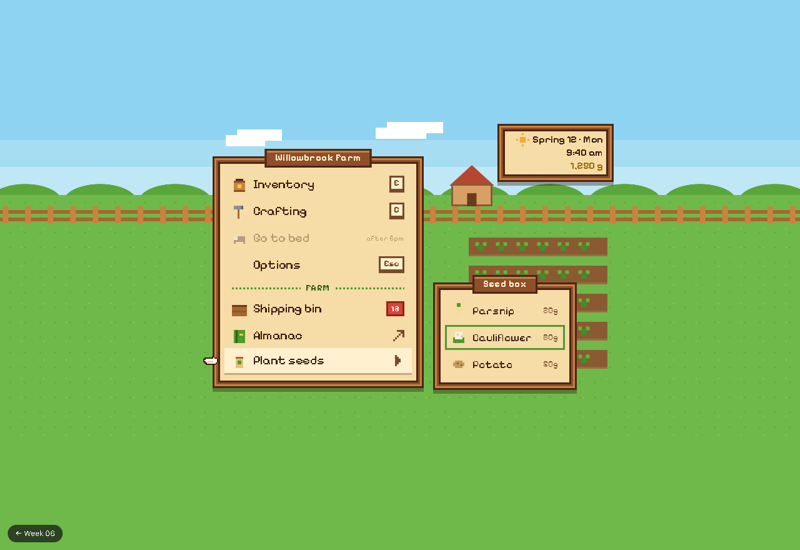
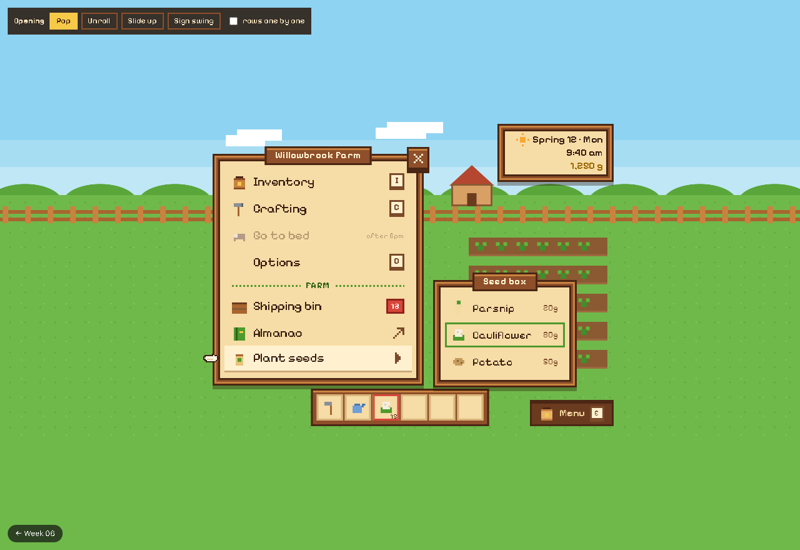
Week 06 Harvest in use: the menu starts shut behind a wooden Menu button (E); four stepped opening motions to compare (pop, unroll, slide up, sign swing) with rows one by one; ×, Esc, E and a click on the farm close it; picks answer over a hotbar, seeds land in hand, the bed shakes its head; spec re
Claude-Session: https://claude.ai/code/session_01NJxmaEWhDanH1Md96UKkh6

Changed region(s): [[0.25, 0.2473, 0.7812, 0.7727], [0.0, 0.0, 0.4062, 0.0618]]

diff --git a/week-06/week-06-harvest-menu.html b/week-06/week-06-harvest-menu.html
@@ -5,24 +5,27 @@
   <meta name="viewport" content="width=device-width, initial-scale=1" />
   <title>Week 06 · Set 1 · Harvest · In use</title>
   <link rel="icon" href="../shared/favicon.svg" type="image/svg+xml" />
-  <link rel="stylesheet" href="week-06-harvest.css?v=1" />
+  <link rel="stylesheet" href="week-06-harvest.css?v=2" />
   <style>
-  /* In use: the in-day menu of "Willowbrook", a cosy pixel farming game, opened over the farm on
-     a spring morning. Parchment in a wooden frame, a pointing hand that bobs beside the lit row,
-     key caps for shortcuts, a red tag for the crates waiting in the shipping bin. Plant seeds opens
-     the seed box beside it. Everything moves in whole game pixels. */
+  /* In use: "Willowbrook", a cosy pixel farming game, on a spring morning. The menu starts shut:
+     a wooden Menu button sits in the corner. Click it or press E and the menu opens over the farm;
+     close it with ×, Esc, E, or a click on the farm. Picking does something you can see: a
+     message over the hotbar, and seeds land in your hand. Everything moves in whole game pixels.
+     The opening motion can be switched, to compare. */
   *, *::before, *::after { box-sizing: border-box; }
   html, body { margin: 0; }
   body { background: #7cc4e8; -webkit-font-smoothing: none; }
   button { font: inherit; }
-  :root { --w: 720px; --h: 520px; --fit: 1; }
+  :root { --w: 720px; --h: 520px; --fit: 1;
+    /* opening motions: each in a few whole frames, the way a sprite animates */
+    --open-pop: 200ms; --open-unroll: 300ms; --open-slide: 240ms; --open-swing: 480ms;
+    --close-time: 140ms; --row-stagger: 40ms; }
   /* the sky and the grass carry on past the stage, meeting where the stage's horizon is */
   .hero { position: relative; height: 100vh; overflow: hidden; background: linear-gradient(#8fd3f2 calc(50% - 128px * var(--fit)), #6fb94a calc(50% - 128px * var(--fit))); }
   .stage { position: absolute; left: 50%; top: 50%; width: var(--w); height: var(--h); transform: translate(-50%, -50%) scale(var(--fit)); }
 
-  /* the farm, in game pixels */
+  /* ---------- the farm, in game pixels ---------- */
   .farm { position: absolute; inset: 0; image-rendering: pixelated; }
-  /* the landscape runs on past the stage, out to the window's edges */
   .sky, .hills, .grass, .fence { margin: 0 -1500px; }
   .sky { position: absolute; left: 0; right: 0; top: 0; height: 132px; background: linear-gradient(#8fd3f2 0 33%, #a6ddf3 33% 66%, #bfe7f5 66%); }
   .cloud { position: absolute; height: 18px; background: #fff; box-shadow: 9px -9px 0 0 #fff, 27px -9px 0 0 #fff, -9px 0 0 0 #fff; }
@@ -37,28 +40,90 @@
   .house .roof { position: absolute; inset: 0 0 33px; background: #b5462f; clip-path: polygon(10% 100%, 50% 0, 90% 100%); }
   .house .wall { position: absolute; left: 12px; right: 12px; bottom: 0; height: 36px; background: #d9a066; box-shadow: inset 0 0 0 3px #8a5a33; }
   .house .door { position: absolute; left: 50%; bottom: 0; width: 15px; height: 21px; translate: -50% 0; background: #6b3b1f; }
+  .farmer { position: absolute; left: 300px; top: 300px; width: 27px; height: 39px; }
+  .farmer i { position: absolute; display: block; }
 
-  /* the clock, top right */
+  /* ---------- the clock ---------- */
   .clock { position: absolute; right: 18px; top: 18px; width: 186px; padding: 12px 14px; font: 600 16px/1.3 var(--font); color: var(--ink); text-align: right; }
   .clock b { display: flex; justify-content: flex-end; align-items: center; gap: 6px; font-size: 16px; white-space: nowrap; }
   .clock .gold { color: #9c6a00; }
 
-  /* the menu */
-  .menu-panel { position: absolute; left: 60px; top: 70px; }
+  /* ---------- wooden buttons: the Menu button and the panel's × ---------- */
+  .wood-btn { display: flex; align-items: center; gap: 8px; padding: 0 12px; height: 42px; border: 3px solid var(--wood-dark); background: var(--wood); color: var(--paper-hi);
+    box-shadow: inset 0 3px 0 var(--wood-hi), 0 6px 0 var(--wood-dark); font: 600 16px/1 var(--font); cursor: pointer; translate: 0 0; transition: translate 80ms steps(1), box-shadow 80ms steps(1); }
+  .wood-btn:hover, .wood-btn:focus-visible { background: #a35d31; translate: 0 -3px; box-shadow: inset 0 3px 0 #dc9a55, 0 9px 0 var(--wood-dark); outline: none; }
+  .wood-btn:active, .wood-btn.is-press { translate: 0 6px; box-shadow: inset 0 3px 0 var(--wood-dark), 0 0 0 var(--wood-dark); background: #7a4423; }
+  .wood-btn[aria-expanded="true"] { translate: 0 6px; box-shadow: inset 0 3px 0 var(--wood-dark), 0 0 0 var(--wood-dark); background: #6b3b1f; color: #f0d39a; }
+  .wood-btn .s-key { translate: 0 0; height: 22px; min-width: 22px; font-size: 12px; }
+  .menu-btn { position: absolute; right: 18px; bottom: 24px; z-index: 3; }
+  .menu-btn svg { width: 24px; height: 24px; }
+  .close { position: absolute; right: -12px; top: -14px; z-index: 2; width: 36px; height: 36px; padding: 0; justify-content: center; }
+  .close svg { width: 15px; height: 15px; }
+
+  /* ---------- the menu, shut and open ---------- */
+  .menu-panel { position: absolute; left: 60px; top: 66px; z-index: 2; transform-origin: 50% 50%; }
+  .menu-panel[hidden] { display: none; }
   .menu-panel .s-menu { margin-top: 4px; }
   .has-sub { position: relative; }
   .submenu.p-panel { position: absolute; left: calc(100% + 34px); bottom: -24px; width: 230px; padding-top: 22px; display: none; }
-  .has-sub.is-open > .submenu { display: block; animation: pop var(--sub-open) steps(2); }
-  @keyframes pop { from { scale: .9; opacity: .5; } }
-  .said { position: absolute; left: 60px; bottom: 18px; margin: 0; padding: 8px 16px; background: var(--paper); border: 3px solid var(--wood-dark); box-shadow: inset 0 0 0 3px var(--wood-hi);
-    font: 400 16px/1 var(--font); color: var(--ink); white-space: nowrap; }
-  .said:empty { display: none; }
+  .has-sub.is-open > .submenu { display: block; animation: sub-pop var(--sub-open) steps(2); }
+  @keyframes sub-pop { from { scale: .9; opacity: .5; } }
+
+  /* the four opening motions; closing plays the same one backwards, faster */
+  .menu-panel.is-opening, .menu-panel.is-closing { animation-fill-mode: both; }
+  [data-motion="pop"] .menu-panel.is-opening { animation: m-pop var(--open-pop) steps(4, jump-none); }
+  [data-motion="pop"] .menu-panel.is-closing { animation: m-pop var(--close-time) steps(3, jump-none) reverse; }
+  @keyframes m-pop { 0% { scale: .7; opacity: 0; } 60% { scale: 1.05; opacity: 1; } 100% { scale: 1; opacity: 1; } }
+  [data-motion="unroll"] .menu-panel.is-opening { animation: m-unroll var(--open-unroll) steps(6, jump-none); }
+  [data-motion="unroll"] .menu-panel.is-closing { animation: m-unroll var(--close-time) steps(3, jump-none) reverse; }
+  @keyframes m-unroll { 0% { clip-path: inset(-30px -40px 100% -40px); } 100% { clip-path: inset(-30px -40px -40px -40px); } }
+  [data-motion="slide"] .menu-panel.is-opening { animation: m-slide var(--open-slide) steps(5, jump-none); }
+  [data-motion="slide"] .menu-panel.is-closing { animation: m-slide var(--close-time) steps(3, jump-none) reverse; }
+  @keyframes m-slide { 0% { translate: 0 90px; opacity: 0; } 70% { translate: 0 -6px; opacity: 1; } 100% { translate: 0 0; opacity: 1; } }
+  [data-motion="swing"] .menu-panel { transform-origin: 50% -30px; }
+  [data-motion="swing"] .menu-panel.is-opening { animation: m-swing var(--open-swing) steps(8, jump-none); }
+  [data-motion="swing"] .menu-panel.is-closing { animation: m-swing var(--close-time) steps(3, jump-none) reverse; }
+  @keyframes m-swing { 0% { translate: 0 -420px; rotate: 0deg; } 35% { translate: 0 0; rotate: -6deg; } 60% { rotate: 4deg; } 80% { rotate: -2deg; } 100% { translate: 0 0; rotate: 0deg; } }
+  /* rows can arrive one after another */
+  .stagger .menu-panel.is-opening .s-menu > * { animation: row-in 120ms steps(2, jump-none) both; animation-delay: calc(var(--i) * var(--row-stagger) + 60ms); }
+  @keyframes row-in { from { opacity: 0; translate: -9px 0; } }
+
+  /* picking a bed you cannot use yet: the row shakes its head */
+  .s-item.is-no { animation: no 240ms steps(4, jump-none); }
+  @keyframes no { 25% { translate: -6px 0; } 50% { translate: 6px 0; } 75% { translate: -3px 0; } }
+
+  /* ---------- the hotbar and the message above it ---------- */
+  .hotbar { position: absolute; left: 50%; bottom: 18px; translate: -50% 0; display: flex; gap: 3px; padding: 6px; background: var(--wood); border: 3px solid var(--wood-dark); box-shadow: inset 0 3px 0 var(--wood-hi); z-index: 1; }
+  .slot { position: relative; display: grid; place-items: center; width: 42px; height: 42px; background: var(--paper); box-shadow: inset 0 0 0 3px #d9b67a; }
+  .slot svg { width: 24px; height: 24px; }
+  .slot.is-on { box-shadow: inset 0 0 0 3px var(--berry); }
+  .slot.is-new { animation: land 300ms steps(3, jump-none); }
+  @keyframes land { 0% { translate: 0 -18px; } 60% { translate: 0 3px; } 100% { translate: 0 0; } }
+  .slot small { position: absolute; right: 3px; bottom: 1px; font: 600 11px/1 var(--font); color: var(--ink); }
+  .toast { position: absolute; left: 50%; bottom: 92px; translate: -50% 0; margin: 0; padding: 8px 14px; background: var(--paper); border: 3px solid var(--wood-dark); box-shadow: inset 0 0 0 3px var(--wood-hi);
+    font: 400 15px/1 var(--font); color: var(--ink); white-space: nowrap; z-index: 3; }
+  .toast:empty { display: none; }
+  .toast.is-new { animation: land 240ms steps(3, jump-none); }
+
+  /* ---------- trying the motions (outside the game) ---------- */
+  .tryout { position: absolute; left: 12px; top: 12px; z-index: 5; display: flex; flex-wrap: wrap; align-items: center; gap: 6px; padding: 8px 10px; background: rgba(43, 26, 16, .88); color: #f6e3bd; font: 400 13px/1 var(--font); }
+  .tryout[hidden] { display: none; }
+  .tryout b { font-weight: 600; margin-right: 2px; }
+  .tryout button { padding: 5px 9px; border: 2px solid #8e4f2a; background: transparent; color: #f6e3bd; cursor: pointer; }
+  .tryout button[aria-pressed="true"] { background: var(--sun); border-color: var(--sun); color: var(--ink); }
+  .tryout label { display: flex; align-items: center; gap: 5px; margin-left: 4px; cursor: pointer; }
   .back-pill { position: fixed; left: 12px; bottom: 12px; z-index: 9; font: 12px/1 system-ui, sans-serif; color: #fff; background: rgba(20, 20, 20, .72); padding: 8px 12px; border-radius: 999px; text-decoration: none; }
+  @media (prefers-reduced-motion: reduce) { .menu-panel.is-opening, .menu-panel.is-closing, .slot.is-new, .toast.is-new, .s-item.is-no { animation-duration: 1ms !important; } }
   </style>
 </head>
 <body>
   <section class="hero">
-    <div class="stage">
+    <div class="tryout" role="group" aria-label="Opening motion">
+      <b>Opening</b>
+      <button type="button" data-m="pop">Pop</button><button type="button" data-m="unroll">Unroll</button><button type="button" data-m="slide">Slide up</button><button type="button" data-m="swing">Sign swing</button>
+      <label><input type="checkbox" id="stagger" /> rows one by one</label>
+    </div>
+    <div class="stage" data-motion="pop">
       <div class="farm" aria-hidden="true">
         <div class="sky"></div>
         <div class="cloud" style="left:90px;top:36px;width:54px"></div><div class="cloud" style="left:330px;top:24px;width:72px"></div>
@@ -67,6 +132,11 @@
         <div class="fence"></div>
         <div class="house"><div class="roof"></div><div class="wall"></div><div class="door"></div></div>
         <div class="field"></div>
+        <div class="farmer">
+          <i style="left:6px;top:0;width:15px;height:6px;background:#c9823f"></i><i style="left:3px;top:6px;width:21px;height:3px;background:#a8652f"></i>
+          <i style="left:6px;top:9px;width:15px;height:9px;background:#f2c9a0"></i><i style="left:3px;top:18px;width:21px;height:12px;background:#3f6fb5"></i>
+          <i style="left:6px;top:30px;width:6px;height:9px;background:#4a2614"></i><i style="left:15px;top:30px;width:6px;height:9px;background:#4a2614"></i>
+        </div>
       </div>
 
       <div class="clock p-panel" aria-label="Spring 12, Monday, 9:40 in the morning, 1,250 gold">
@@ -74,28 +144,38 @@
         9:40 am<br /><span class="gold">1,250 g</span>
       </div>
 
-      <div class="menu-panel p-panel">
+      <div class="hotbar" aria-label="Hotbar">
+        <span class="slot"><svg viewBox="0 0 8 8" shape-rendering="crispEdges" aria-hidden="true"><path d="M1 1h4v2H1z" fill="#8a8f96"/><path d="M4 3h1v5H4z" fill="#a8652f"/></svg></span>
+        <span class="slot"><svg viewBox="0 0 8 8" shape-rendering="crispEdges" aria-hidden="true"><path d="M1 3h5v4H1z" fill="#6f9fd8"/><path d="M6 2h2v1H6zM6 3h1v1H6z" fill="#4a77b0"/><path d="M2 2h3v1H2z" fill="#4a77b0"/></svg></span>
+        <span class="slot is-on" id="seed-slot" aria-label="In hand: Cauliflower seeds"><svg viewBox="0 0 8 8" shape-rendering="crispEdges" aria-hidden="true"><path d="M1 4h6v3H1z" fill="#4f9a2c"/><path d="M2 1h4v4H2z" fill="#f4efe0"/><path d="M3 2h1v1H3zM5 3h1v1H5z" fill="#d8cfb5"/></svg><small>15</small></span>
+        <span class="slot"></span><span class="slot"></span><span class="slot"></span>
+      </div>
+      <p class="toast" aria-live="polite"></p>
+
+      <button class="wood-btn menu-btn" type="button" aria-expanded="false" aria-controls="game-menu"><svg viewBox="0 0 8 8" shape-rendering="crispEdges" aria-hidden="true"><path d="M2 1h4v1H2z" fill="#4a2614"/><path d="M1 2h6v6H1z" fill="#e8b46a"/><path d="M1 2h6v1H1zM1 7h6v1H1z" fill="#c9823f"/><path d="M3 4h2v2H3z" fill="#f7c948"/></svg>Menu<kbd class="s-key">E</kbd></button>
+
+      <div class="menu-panel p-panel" id="game-menu" hidden>
         <span class="p-title" aria-hidden="true">Willowbrook Farm</span>
+        <button class="wood-btn close" type="button" aria-label="Close the menu"><svg viewBox="0 0 5 5" shape-rendering="crispEdges" aria-hidden="true"><path d="M0 0h1v1H0zM1 1h1v1H1zM2 2h1v1H2zM3 3h1v1H3zM4 4h1v1H4zM4 0h1v1H4zM3 1h1v1H3zM1 3h1v1H1zM0 4h1v1H0z" fill="currentColor"/></svg></button>
         <div class="s-menu" role="menu" aria-label="Game menu">
-          <button class="s-item" role="menuitem" data-say="Your backpack: 24 slots, 17 full."><svg class="s-ico" viewBox="0 0 8 8" aria-hidden="true"><path d="M2 1h4v1H2z" fill="#4a2614"/><path d="M1 2h6v6H1z" fill="#c9823f"/><path d="M1 2h6v1H1zM1 7h6v1H1z" fill="#8e4f2a"/><path d="M3 4h2v2H3z" fill="#f7c948"/></svg><span class="s-label">Inventory</span><kbd class="s-key">E</kbd></button>
-          <button class="s-item" role="menuitem" data-say="You know 12 recipes."><svg class="s-ico" viewBox="0 0 8 8" aria-hidden="true"><path d="M1 1h5v2H1z" fill="#8a8f96"/><path d="M5 1h1v2H5z" fill="#5e636a"/><path d="M3 3h1v5H3z" fill="#a8652f"/></svg><span class="s-label">Crafting</span><kbd class="s-key">C</kbd></button>
-          <button class="s-item" role="menuitem" aria-disabled="true"><svg class="s-ico" viewBox="0 0 8 8" aria-hidden="true"><path d="M1 3h6v3H1zM1 6h1v1H1zM6 6h1v1H6z" fill="#b39b85"/><path d="M1 3h2v2H1z" fill="#efe3d3"/></svg><span class="s-label">Go to bed</span><span class="s-note">after 6pm</span></button>
-          <button class="s-item" role="menuitem" data-say="Options: sound, zoom, controls."><span class="s-ico"></span><span class="s-label">Options</span><kbd class="s-key">Esc</kbd></button>
-          <div class="s-sect" role="separator">Farm</div>
-          <button class="s-item" role="menuitem" data-say="12 crates ship tonight at 6pm."><svg class="s-ico" viewBox="0 0 8 8" aria-hidden="true"><path d="M0 3h8v5H0z" fill="#a8652f"/><path d="M0 2h8v1H0z" fill="#6b3b1f"/><path d="M0 5h8v1H0z" fill="#8a5a33"/></svg><span class="s-label">Shipping bin</span><span class="s-badge" aria-label="12 crates">12</span></button>
-          <button class="s-item" role="menuitem" data-say="The almanac opens in your browser."><svg class="s-ico" viewBox="0 0 8 8" aria-hidden="true"><path d="M1 1h6v7H1z" fill="#4f9a2c"/><path d="M2 1h1v7H2z" fill="#2f6418"/><path d="M4 3h2v1H4z" fill="#f7c948"/></svg><span class="s-label">Almanac</span><svg class="s-end" viewBox="0 0 6 6" aria-hidden="true"><path d="M2 0h4v4H5V2H4V1H2zM3 2h1v1H3zM2 3h1v1H2zM1 4h1v1H1zM0 5h1v1H0z" fill="currentColor"/></svg></button>
-          <div class="has-sub">
+          <button class="s-item" role="menuitem" data-say="Your backpack: 24 slots, 17 full." style="--i:0"><svg class="s-ico" viewBox="0 0 8 8" aria-hidden="true"><path d="M2 1h4v1H2z" fill="#4a2614"/><path d="M1 2h6v6H1z" fill="#c9823f"/><path d="M1 2h6v1H1zM1 7h6v1H1z" fill="#8e4f2a"/><path d="M3 4h2v2H3z" fill="#f7c948"/></svg><span class="s-label">Inventory</span><kbd class="s-key">I</kbd></button>
+          <button class="s-item" role="menuitem" data-say="You know 12 recipes." style="--i:1"><svg class="s-ico" viewBox="0 0 8 8" aria-hidden="true"><path d="M1 1h5v2H1z" fill="#8a8f96"/><path d="M5 1h1v2H5z" fill="#5e636a"/><path d="M3 3h1v5H3z" fill="#a8652f"/></svg><span class="s-label">Crafting</span><kbd class="s-key">C</kbd></button>
+          <button class="s-item" role="menuitem" aria-disabled="true" data-say="Not tired yet. Bed after 6pm." style="--i:2"><svg class="s-ico" viewBox="0 0 8 8" aria-hidden="true"><path d="M1 3h6v3H1zM1 6h1v1H1zM6 6h1v1H6z" fill="#b39b85"/><path d="M1 3h2v2H1z" fill="#efe3d3"/></svg><span class="s-label">Go to bed</span><span class="s-note">after 6pm</span></button>
+          <button class="s-item" role="menuitem" data-say="Options: sound, zoom, controls." style="--i:3"><span class="s-ico"></span><span class="s-label">Options</span><kbd class="s-key">O</kbd></button>
+          <div class="s-sect" role="separator" style="--i:4">Farm</div>
+          <button class="s-item" role="menuitem" data-say="12 crates ship tonight at 6pm." style="--i:5"><svg class="s-ico" viewBox="0 0 8 8" aria-hidden="true"><path d="M0 3h8v5H0z" fill="#a8652f"/><path d="M0 2h8v1H0z" fill="#6b3b1f"/><path d="M0 5h8v1H0z" fill="#8a5a33"/></svg><span class="s-label">Shipping bin</span><span class="s-badge" aria-label="12 crates">12</span></button>
+          <button class="s-item" role="menuitem" data-say="The almanac opens in your browser." style="--i:6"><svg class="s-ico" viewBox="0 0 8 8" aria-hidden="true"><path d="M1 1h6v7H1z" fill="#4f9a2c"/><path d="M2 1h1v7H2z" fill="#2f6418"/><path d="M4 3h2v1H4z" fill="#f7c948"/></svg><span class="s-label">Almanac</span><svg class="s-end" viewBox="0 0 6 6" aria-hidden="true"><path d="M2 0h4v4H5V2H4V1H2zM3 2h1v1H3zM2 3h1v1H2zM1 4h1v1H1zM0 5h1v1H0z" fill="currentColor"/></svg></button>
+          <div class="has-sub" style="--i:7">
             <button class="s-item" role="menuitem"><svg class="s-ico" viewBox="0 0 8 8" aria-hidden="true"><path d="M2 2h4v6H2z" fill="#e8c27a"/><path d="M2 2h4v1H2z" fill="#a8652f"/><path d="M3 4h2v2H3z" fill="#4f9a2c"/></svg><span class="s-label">Plant seeds</span><svg class="s-end" viewBox="0 0 6 6" aria-hidden="true"><path d="M1 0h1v1h1v1h1v2H3v1H2v1H1z" fill="currentColor"/></svg></button>
             <div class="submenu p-panel" role="menu" aria-label="Seed box">
               <span class="p-title" aria-hidden="true">Seed box</span>
-              <button class="s-seed" role="menuitemradio" aria-checked="false" data-say="Parsnip seeds in hand. Ready in 4 days."><svg class="s-ico" viewBox="0 0 8 8" aria-hidden="true"><path d="M3 0h2v2H3z" fill="#4f9a2c"/><path d="M2 2h4v2H2zM3 4h2v2H3zM3 6h1v2H3z" fill="#f0dca0"/></svg><span class="s-label">Parsnip</span><span class="s-price">20g</span></button>
-              <button class="s-seed" role="menuitemradio" aria-checked="true" data-say="Cauliflower seeds in hand. Ready in 12 days."><svg class="s-ico" viewBox="0 0 8 8" aria-hidden="true"><path d="M1 4h6v3H1z" fill="#4f9a2c"/><path d="M2 1h4v4H2z" fill="#f4efe0"/><path d="M3 2h1v1H3zM5 3h1v1H5z" fill="#d8cfb5"/></svg><span class="s-label">Cauliflower</span><span class="s-price">80g</span></button>
-              <button class="s-seed" role="menuitemradio" aria-checked="false" data-say="Potato seeds in hand. Ready in 6 days."><svg class="s-ico" viewBox="0 0 8 8" aria-hidden="true"><path d="M2 2h4v4H2zM1 3h6v2H1z" fill="#c69a5c"/><path d="M3 3h1v1H3zM5 4h1v1H5z" fill="#8a6a3c"/></svg><span class="s-label">Potato</span><span class="s-price">50g</span></button>
+              <button class="s-seed" role="menuitemradio" aria-checked="false" data-seed="parsnip" data-say="Parsnip seeds in hand. Ready in 4 days."><svg class="s-ico" viewBox="0 0 8 8" aria-hidden="true"><path d="M3 0h2v2H3z" fill="#4f9a2c"/><path d="M2 2h4v2H2zM3 4h2v2H3zM3 6h1v2H3z" fill="#f0dca0"/></svg><span class="s-label">Parsnip</span><span class="s-price">20g</span></button>
+              <button class="s-seed" role="menuitemradio" aria-checked="true" data-seed="cauliflower" data-say="Cauliflower seeds in hand. Ready in 12 days."><svg class="s-ico" viewBox="0 0 8 8" aria-hidden="true"><path d="M1 4h6v3H1z" fill="#4f9a2c"/><path d="M2 1h4v4H2z" fill="#f4efe0"/><path d="M3 2h1v1H3zM5 3h1v1H5z" fill="#d8cfb5"/></svg><span class="s-label">Cauliflower</span><span class="s-price">80g</span></button>
+              <button class="s-seed" role="menuitemradio" aria-checked="false" data-seed="potato" data-say="Potato seeds in hand. Ready in 6 days."><svg class="s-ico" viewBox="0 0 8 8" aria-hidden="true"><path d="M2 2h4v4H2zM1 3h6v2H1z" fill="#c69a5c"/><path d="M3 3h1v1H3zM5 4h1v1H5z" fill="#8a6a3c"/></svg><span class="s-label">Potato</span><span class="s-price">50g</span></button>
             </div>
           </div>
         </div>
       </div>
-      <p class="said" aria-live="polite"></p>
     </div>
   </section>
 
@@ -116,9 +196,72 @@
   </script>
   <script src="week-06-sketch.js?v=2"></script>
   <script>
-    // #open in the address shows the seed box already open (used for the set's thumbnail)
-    if (location.hash === '#open') { const h = document.querySelector('.has-sub'); h.classList.add('is-open'); h.querySelector('.s-item').setAttribute('aria-expanded', 'true'); }
+    (() => {
+      const stage = document.querySelector('.stage'), panel = document.getElementById('game-menu'), btn = document.querySelector('.menu-btn');
+      const said = document.querySelector('.toast'), slot = document.getElementById('seed-slot'), root = getComputedStyle(document.documentElement);
+      const ms = v => parseFloat(v) * (String(v).trim().endsWith('ms') ? 1 : 1000);
+      const isOpen = () => !panel.hidden && !panel.classList.contains('is-closing');
+      let toastTimer;
+      const say = text => { said.textContent = text; said.classList.remove('is-new'); void said.offsetWidth; said.classList.add('is-new'); clearTimeout(toastTimer); toastTimer = setTimeout(() => said.textContent = '', 2600); };
+
+      const open = () => {
+        if (isOpen()) return;
+        panel.hidden = false; panel.classList.remove('is-closing'); panel.classList.add('is-opening');
+        btn.setAttribute('aria-expanded', 'true');
+        const t = ms(root.getPropertyValue('--open-' + stage.dataset.motion)) + (document.body.classList.contains('stagger') ? 400 : 0);
+        setTimeout(() => panel.classList.remove('is-opening'), t);
+        panel.querySelector('.s-item').focus({ preventScroll: true });
+      };
+      const close = (back = true) => {
+        if (!isOpen()) return;
+        panel.querySelectorAll('.has-sub.is-open').forEach(h => h.classList.remove('is-open'));
+        panel.classList.remove('is-opening'); panel.classList.add('is-closing');
+        btn.setAttribute('aria-expanded', 'false');
+        setTimeout(() => { panel.hidden = true; panel.classList.remove('is-closing'); }, ms(root.getPropertyValue('--close-time')));
+        if (back) btn.focus({ preventScroll: true });
+      };
+
+      btn.addEventListener('click', () => isOpen() ? close() : open());
+      panel.querySelector('.close').addEventListener('click', () => close());
+      // a click on the farm, outside the menu, shuts it
+      stage.addEventListener('pointerdown', e => { if (isOpen() && !panel.contains(e.target) && !btn.contains(e.target)) close(false); });
+      addEventListener('keydown', e => {
+        if (e.metaKey || e.ctrlKey || e.altKey) return;
+        if (e.key === 'e' || e.key === 'E') { e.preventDefault(); isOpen() ? close() : open(); }
+        else if (e.key === 'Escape' && isOpen() && !panel.querySelector('.has-sub.is-open')) { e.preventDefault(); close(); }
+        else if (isOpen() && e.key.length === 1) { // a key cap picks its item
+          const k = [...panel.querySelectorAll('.s-item .s-key')].find(x => x.textContent.toLowerCase() === e.key.toLowerCase());
+          if (k) { e.preventDefault(); k.closest('.s-item').click(); }
+        }
+      });
+
+      // picking: the shared sketch script marks the pick; here the game answers it
+      panel.addEventListener('click', e => {
+        const it = e.target.closest('.s-item, .s-seed');
+        if (!it || it.parentElement.classList.contains('has-sub') && it === it.parentElement.querySelector('.s-item')) return;
+        if (it.getAttribute('aria-disabled') === 'true') { it.classList.remove('is-no'); void it.offsetWidth; it.classList.add('is-no'); say(it.dataset.say); return; }
+        if (it.dataset.seed) {
+          slot.innerHTML = it.querySelector('.s-ico').outerHTML.replace('class="s-ico"', '') + '<small>15</small>';
+          slot.setAttribute('aria-label', 'In hand: ' + it.querySelector('.s-label').textContent + ' seeds');
+          slot.classList.remove('is-new'); void slot.offsetWidth; slot.classList.add('is-new');
+        }
+        say(it.dataset.say);
+        setTimeout(() => close(), 220);
+      });
+
+      // trying the motions
+      const tryout = document.querySelector('.tryout');
+      const pick = m => { stage.dataset.motion = m; tryout.querySelectorAll('[data-m]').forEach(b => b.setAttribute('aria-pressed', String(b.dataset.m === m))); dispatchEvent(new Event('motionchange')); };
+      tryout.querySelectorAll('[data-m]').forEach(b => b.addEventListener('click', () => { pick(b.dataset.m); close(false); setTimeout(open, 260); }));
+      document.getElementById('stagger').addEventListener('change', e => { document.body.classList.toggle('stagger', e.target.checked); close(false); setTimeout(open, 260); });
+      const q = new URLSearchParams(location.search);
+      pick(q.get('motion') || 'pop');
+      if (q.has('stagger')) { document.getElementById('stagger').checked = true; document.body.classList.add('stagger'); }
+      if (window.self !== window.top) tryout.hidden = true;
+      // #open shows the menu (and the seed box) already open, for the set's thumbnail
+      if (location.hash === '#open') { panel.hidden = false; btn.setAttribute('aria-expanded', 'true'); const h = panel.querySelector('.has-sub'); h.classList.add('is-open'); }
+    })();
   </script>
-  <script src="week-06-harvest-spec.js?v=1"></script>
+  <script src="week-06-harvest-spec.js?v=2"></script>
 </body>
 </html>

diff --git a/week-06/week-06.html b/week-06/week-06.html
@@ -635,11 +635,11 @@
                   </figcaption>
                 </figure>
                 <figure class="proto">
-                  <iframe src="week-06-harvest-menu.html?v=1" title="Harvest in use: the in-day menu of a pixel farming game over the farm" loading="lazy"></iframe>
+                  <iframe src="week-06-harvest-menu.html?v=2" title="Harvest in use: the in-day menu of a pixel farming game over the farm" loading="lazy"></iframe>
                   <figcaption>
                     <b>In use</b>
-                    <span>The menu of Willowbrook, opened over the farm on a spring morning. Plant seeds opens the seed box beside it; picking a seed puts it in hand. Arrow keys work throughout. The spec follows.</span>
-                    <button type="button" class="viewer-open" data-src="week-06-harvest-menu.html?v=1">View larger</button>
+                    <span>Willowbrook on a spring morning. The menu starts shut: the Menu button or E opens it; &times;, Esc, E or a click on the farm closes it. Picks answer over the hotbar, and seeds land in hand. Try the four openings in View larger. The spec follows.</span>
+                    <button type="button" class="viewer-open" data-src="week-06-harvest-menu.html?v=2">View larger</button>
                   </figcaption>
                 </figure>
               </div>
@@ -648,7 +648,8 @@
               <p class="process-label">In use</p>
               <div class="process-grid">
                 <figure><img src="images/process/seance-menu-1.png" alt="S&eacute;ance, the first direction: a horror game&rsquo;s menu on a spirit board" loading="lazy" /><figcaption>First direction: S&eacute;ance, a horror game on a spirit board. Swapped for a farm.</figcaption></figure>
-                <figure><img src="images/process/harvest-menu-1.png" alt="Harvest in use, final" loading="lazy" /><figcaption>Final: Harvest, the seed box open.</figcaption></figure>
+                <figure><img src="images/process/harvest-menu-0.png" alt="Harvest in use, the menu shut" loading="lazy" /><figcaption>Shut: the Menu button in the corner, the hotbar.</figcaption></figure>
+                <figure><img src="images/process/harvest-menu-1.png" alt="Harvest in use, final" loading="lazy" /><figcaption>Open, the seed box out.</figcaption></figure>
               </div>
               <p class="process-label">Menu system</p>
               <div class="process-grid">

diff --git a/week-06/week-06-harvest-spec.js b/week-06/week-06-harvest-spec.js
@@ -1,7 +1,7 @@
 // Week 06, Set 1 · Harvest: the spec, read from the values the prototype runs on.
 // It builds a hidden sample of every part in every state, asks the browser what it computed,
 // and writes the numbers into <section class="spec">. Nothing here is typed in by hand.
-(() => {
+const renderSpec = () => {
   const out = document.querySelector('.spec-grid');
   if (!out) return;
   const root = getComputedStyle(document.documentElement);
@@ -96,6 +96,23 @@
       ['Why steps', 'a pixel game never moves half a pixel'],
     ]],
   ];
+  // the menu in use also opens and closes: report the opening chosen on the page
+  const stage = document.querySelector('.stage[data-motion]');
+  if (stage) {
+    const m = stage.dataset.motion, names = { pop: 'Pop: grows past full size, settles', unroll: 'Unroll: parchment opens top to bottom', slide: 'Slide up: rises, overshoots one step', swing: 'Sign swing: drops in, swings to rest' };
+    const frames = { pop: 4, unroll: 6, slide: 5, swing: 8 };
+    cards.push(['Opening and closing', [
+      ['Opens with', 'Menu button, E'],
+      ['Closes with', '×, Esc, E, a click on the farm, a pick'],
+      ['Motion', names[m]],
+      ['Opening', `${tok('--open-' + m)}, ${frames[m]} frames`],
+      ['Closing', `${tok('--close-time')}, the same motion backwards`],
+      ['Rows one by one', document.body.classList.contains('stagger') ? `on, ${tok('--row-stagger')} apart` : 'off'],
+      ['Menu button', '42px tall, 3px frame, 6px drop; pressed sits flush'],
+    ]]);
+  }
   out.innerHTML = cards.map(([h, rows]) => `<div class="spec-card"><h3>${h}</h3><dl>${rows.map(([k, v]) => `<dt>${k}</dt><dd>${v}</dd>`).join('')}</dl></div>`).join('');
   sample.remove();
-})();
+};
+renderSpec();
+addEventListener('motionchange', renderSpec);
